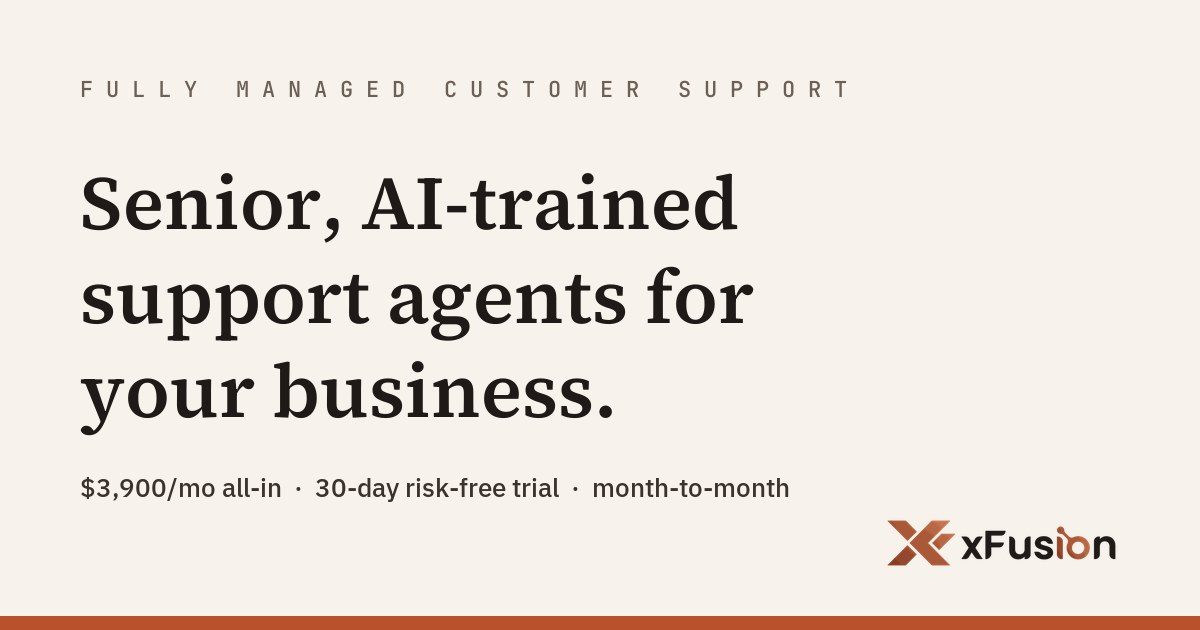
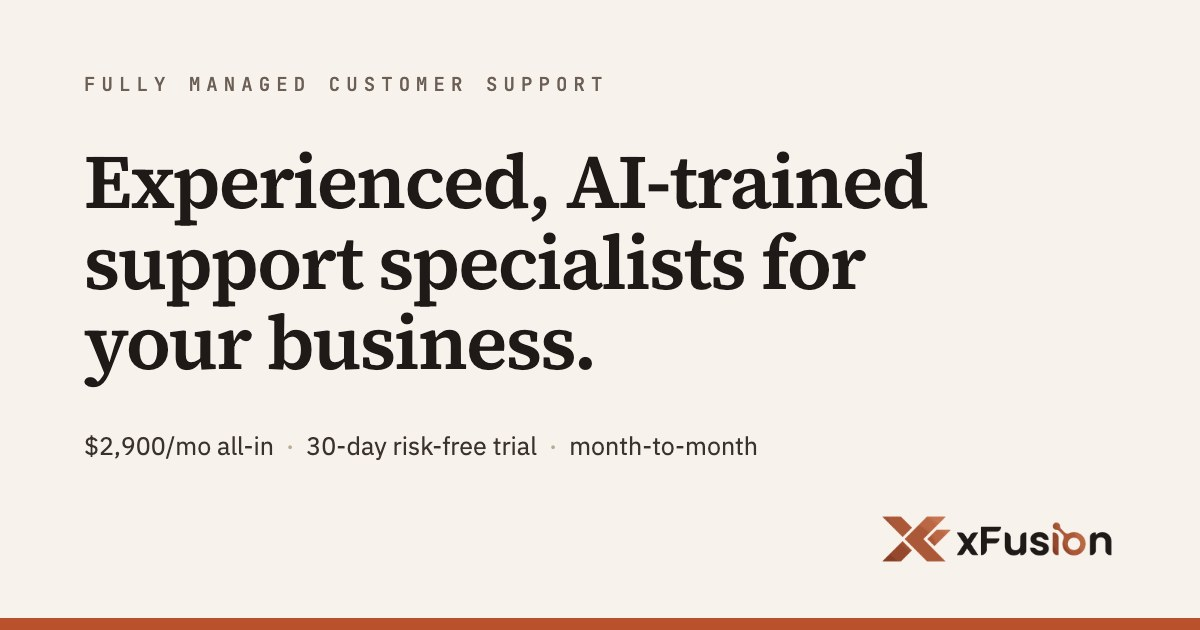
Pricing page upgrades + OG image refresh for $2,900 era
- Trial phrasing standardized (conditional, matching /faq/ and LPs)
- Influx-named FAQ removed (their pricing is now published; claim was
  outdated and the comparison belongs on a future /compare/ page)
- 'The account manager line is a real person' team block after the
  offer stack; '$108M raised in 2026' client-momentum callout after
  the US-hire comparison; draft-mode FAQ added (schema at 6)
- og-default.jpg regenerated: new positioning + $2,900 (was still
  'Senior agents / $3,900' on every social share)

diff --git a/pricing/index.built.js b/pricing/index.built.js
@@ -1763,7 +1763,7 @@ const XF_LP_FAQ = [{
   a: "$2,900 per month per experienced, AI-trained support specialist, all-inclusive. That covers the agent's salary, recruiting and vetting, onboarding, training, payroll, culture and engagement, QA, a dedicated account manager, and ongoing coaching. There are no setup fees, no deposits, and no add-ons."
 }, {
   q: "Are there setup fees, deposits, or long-term contracts?",
-  a: "No. The service is month-to-month with no minimum term, no deposit, no setup fee, and no fine print. The 30-Day Risk-Free Trial means you pay nothing for the first month and walk away free if it's not a fit."
+  a: "No. The service is month-to-month with no minimum term, no deposit, no setup fee, and no fine print. And the 30-Day Risk-Free Trial means that if you're not satisfied in the first 30 days, you walk away without paying anything."
 }, {
   q: "Why is $2,900/mo the right price?",
   a: "Two reasons. First, every specialist we place has more experience than a typical support hire and is trained to use AI tools to handle the easy stuff. So one xFusion agent does a lot more work than a junior rep at a cheaper agency. The cost per ticket is actually lower. Second, $2,900 is less than half what you'd pay for the same kind of person in the U.S., and it includes hiring, training, payroll, culture, and an account manager."
@@ -1774,8 +1774,8 @@ const XF_LP_FAQ = [{
   q: "How is xFusion different from cheaper outsourcing companies?",
   a: "Cheaper agencies staff junior agents reading scripts, and the low hourly rate usually excludes training, QA, and management layers. Every xFusion specialist is experienced and AI-trained, so one specialist does the work of several junior reps, and the flat price includes everything. The 30-Day Risk-Free Trial means we absorb the risk, not you."
 }, {
-  q: "How does xFusion compare to Influx?",
-  a: "Influx is a larger provider that prices most engagements through a sales conversation, and management layers are typically part of higher tiers. xFusion publishes one number: $2,900 per month all-in, including training, QA, management, and backup coverage, starting with a 30-day risk-free trial. If you need dozens of seats overnight, a volume provider may fit better. If you want an experienced specialist who learns your product and stays for years, that's what we do."
+  q: "How do you protect our brand voice while the specialist ramps up?",
+  a: "Draft mode. For the first days, every reply your specialist writes is a draft: their xFusion team leader reviews it, then you approve it, before it reaches a customer. Replies switch to live only once you sign off. By then they have been trained on your product, your tone, and your helpdesk."
 }];
 window.XF_LP_FAQ = XF_LP_FAQ;
 const INCLUDED = [['Experienced support specialist salary (full-time, dedicated to you)', '$3,500/mo'], ['Hiring and screening through the TraitX Framework', '$375/mo value'], ['Placement and onboarding into your business', '$1,500 one-time'], ['Training in your support process', '$750 one-time'], ['Training and certification in AI-powered support tools', '$1,500 one-time'], ['Payroll services (paying salaries, light HR, time off)', '$300/mo'], ['Culture and engagement (team-building, swag, gifts, anniversaries)', '$200/mo'], ['Dedicated account manager (leads and supports your agent)', '$1,200/mo'], ['Ongoing performance management and coaching', '$500/mo']];
@@ -1932,6 +1932,72 @@ function PricingPage() {
     }
   }, value)))))), /*#__PURE__*/React.createElement("section", {
     style: {
+      padding: '0 0 64px'
+    }
+  }, /*#__PURE__*/React.createElement(Container, {
+    narrow: true
+  }, /*#__PURE__*/React.createElement("h2", {
+    style: {
+      fontFamily: "'Source Serif 4', serif",
+      fontSize: 'clamp(24px, 3vw, 32px)',
+      fontWeight: 600,
+      letterSpacing: '-0.02em',
+      margin: '0 0 12px'
+    }
+  }, "The account manager line is a real person"), /*#__PURE__*/React.createElement("p", {
+    style: {
+      fontFamily: "'IBM Plex Sans', sans-serif",
+      fontSize: 16,
+      lineHeight: 1.6,
+      color: '#3A322D',
+      margin: '0 0 26px',
+      maxWidth: 620
+    }
+  }, "Every client gets a dedicated account manager, included in the flat rate. They run QA on real tickets, coach your specialist, and arrange backup coverage, so quality is somebody's actual job."), /*#__PURE__*/React.createElement("div", {
+    className: "pricing-team",
+    style: {
+      display: 'grid',
+      gridTemplateColumns: '1fr 1fr 1fr',
+      gap: 20
+    }
+  }, [{
+    name: 'Martin Onami',
+    img: '/images/martin-onami-lp.webp'
+  }, {
+    name: 'Reggie Rendal',
+    img: '/images/reggie-rendal-lp.webp'
+  }, {
+    name: 'Marie Medina',
+    img: '/images/marie-medina-lp.webp'
+  }].map(t => /*#__PURE__*/React.createElement("div", {
+    key: t.name
+  }, /*#__PURE__*/React.createElement("img", {
+    src: t.img,
+    alt: t.name,
+    loading: "lazy",
+    style: {
+      width: '100%',
+      aspectRatio: '4 / 5',
+      objectFit: 'cover',
+      borderRadius: 12,
+      display: 'block',
+      marginBottom: 10
+    }
+  }), /*#__PURE__*/React.createElement("div", {
+    style: {
+      fontFamily: "'Source Serif 4', serif",
+      fontSize: 17,
+      fontWeight: 600,
+      color: '#1F1A17'
+    }
+  }, t.name), /*#__PURE__*/React.createElement("div", {
+    style: {
+      fontFamily: "'IBM Plex Sans', sans-serif",
+      fontSize: 13.5,
+      color: '#6B5F56'
+    }
+  }, "Account Manager")))))), /*#__PURE__*/React.createElement("section", {
+    style: {
       background: '#EFE8DD',
       padding: '64px 0'
     }
@@ -2027,6 +2093,45 @@ function PricingPage() {
       margin: 0
     }
   }, "Experienced, AI-trained, and managed for you. Candidates in about 14 days. First month risk-free. Month-to-month after that."))))), /*#__PURE__*/React.createElement("section", {
+    style: {
+      padding: '64px 0 0'
+    }
+  }, /*#__PURE__*/React.createElement(Container, {
+    narrow: true
+  }, /*#__PURE__*/React.createElement("div", {
+    style: {
+      background: '#F8EBC9',
+      border: '1px solid #E6C683',
+      borderRadius: 12,
+      padding: '32px 34px 30px'
+    }
+  }, /*#__PURE__*/React.createElement("div", {
+    style: {
+      fontFamily: "'JetBrains Mono', monospace",
+      fontSize: 11,
+      textTransform: 'uppercase',
+      letterSpacing: '0.16em',
+      color: '#6B5F56',
+      marginBottom: 12
+    }
+  }, "From our client roster"), /*#__PURE__*/React.createElement("div", {
+    style: {
+      fontFamily: "'Source Serif 4', serif",
+      fontSize: 'clamp(22px, 2.8vw, 28px)',
+      fontWeight: 600,
+      letterSpacing: '-0.02em',
+      color: '#1F1A17',
+      marginBottom: 12
+    }
+  }, "Companies that raised over $108M in 2026 pay this same flat rate"), /*#__PURE__*/React.createElement("p", {
+    style: {
+      fontFamily: "'IBM Plex Sans', sans-serif",
+      fontSize: 16,
+      lineHeight: 1.65,
+      color: '#3A322D',
+      margin: 0
+    }
+  }, "Aligned closed a $60M Series B. Arbio closed a $36M Series A. SkyFi closed an oversubscribed $12.7M Series A. All of them run their customer support with xFusion, at the price on this page.")))), /*#__PURE__*/React.createElement("section", {
     style: {
       padding: '64px 0 0'
     }
@@ -2148,7 +2253,7 @@ function PricingPage() {
     href: "/book/"
   }, "Book a Discovery Call")))), /*#__PURE__*/React.createElement(StickyCapture, null), /*#__PURE__*/React.createElement(Footer, null), /*#__PURE__*/React.createElement("style", null, `
             @media (max-width: 760px) {
-              .pricing-compare { grid-template-columns: 1fr !important; }
+              .pricing-compare { grid-template-columns: 1fr !important; } .pricing-team { grid-template-columns: 1fr 1fr 1fr !important; }
             }
           `));
 }

diff --git a/pricing/index.src.html b/pricing/index.src.html
@@ -39,7 +39,7 @@
   <meta name="twitter:title" content="Pricing: $2,900/mo All-In | xFusion">
   <meta name="twitter:description" content="xFusion pricing is one number: $2,900 per month, all-inclusive, per experienced, AI-trained support specialist. Month-to-month, no setup fees, 30-day risk-free trial.">
   <meta name="twitter:image" content="https://xfusion.io/images/og-default.jpg">
-  <script type="application/ld+json">{"@context":"https://schema.org","@type":"FAQPage","mainEntity":[{"@type":"Question","name":"How much does xFusion cost?","acceptedAnswer":{"@type":"Answer","text":"$2,900 per month per experienced, AI-trained support specialist, all-inclusive. That covers the agent's salary, recruiting and vetting, onboarding, training, payroll, culture and engagement, QA, a dedicated account manager, and ongoing coaching. There are no setup fees, no deposits, and no add-ons."}},{"@type":"Question","name":"Are there setup fees, deposits, or long-term contracts?","acceptedAnswer":{"@type":"Answer","text":"No. The service is month-to-month with no minimum term, no deposit, no setup fee, and no fine print. The 30-Day Risk-Free Trial means you pay nothing for the first month and walk away free if it's not a fit."}},{"@type":"Question","name":"Why is $2,900/mo the right price?","acceptedAnswer":{"@type":"Answer","text":"Two reasons. First, every specialist we place has more experience than a typical support hire and is trained to use AI tools to handle the easy stuff. So one xFusion agent does a lot more work than a junior rep at a cheaper agency. The cost per ticket is actually lower. Second, $2,900 is less than half what you'd pay for the same kind of person in the U.S., and it includes hiring, training, payroll, culture, and an account manager."}},{"@type":"Question","name":"How does xFusion pricing compare to hiring in the U.S.?","acceptedAnswer":{"@type":"Answer","text":"Senior-level support reps in the U.S. who know AI cost $80,000 to $100,000+ per year, which is $6,600 to $8,300+ per month once you add benefits, taxes, payroll, equipment, hiring fees, and management costs. xFusion is $2,900 per month all-in, and you skip the months-long search."}},{"@type":"Question","name":"How is xFusion different from cheaper outsourcing companies?","acceptedAnswer":{"@type":"Answer","text":"Cheaper agencies staff junior agents reading scripts, and the low hourly rate usually excludes training, QA, and management layers. Every xFusion specialist is experienced and AI-trained, so one specialist does the work of several junior reps, and the flat price includes everything. The 30-Day Risk-Free Trial means we absorb the risk, not you."}},{"@type":"Question","name":"How does xFusion compare to Influx?","acceptedAnswer":{"@type":"Answer","text":"Influx is a larger provider that prices most engagements through a sales conversation, and management layers are typically part of higher tiers. xFusion publishes one number: $2,900 per month all-in, including training, QA, management, and backup coverage, starting with a 30-day risk-free trial. If you need dozens of seats overnight, a volume provider may fit better. If you want an experienced specialist who learns your product and stays for years, that's what we do."}}]}</script>
+  <script type="application/ld+json">{"@context":"https://schema.org","@type":"FAQPage","mainEntity":[{"@type":"Question","name":"How much does xFusion cost?","acceptedAnswer":{"@type":"Answer","text":"$2,900 per month per experienced, AI-trained support specialist, all-inclusive. That covers the agent's salary, recruiting and vetting, onboarding, training, payroll, culture and engagement, QA, a dedicated account manager, and ongoing coaching. There are no setup fees, no deposits, and no add-ons."}},{"@type":"Question","name":"Are there setup fees, deposits, or long-term contracts?","acceptedAnswer":{"@type":"Answer","text":"No. The service is month-to-month with no minimum term, no deposit, no setup fee, and no fine print. And the 30-Day Risk-Free Trial means that if you're not satisfied in the first 30 days, you walk away without paying anything."}},{"@type":"Question","name":"Why is $2,900/mo the right price?","acceptedAnswer":{"@type":"Answer","text":"Two reasons. First, every specialist we place has more experience than a typical support hire and is trained to use AI tools to handle the easy stuff. So one xFusion agent does a lot more work than a junior rep at a cheaper agency. The cost per ticket is actually lower. Second, $2,900 is less than half what you'd pay for the same kind of person in the U.S., and it includes hiring, training, payroll, culture, and an account manager."}},{"@type":"Question","name":"How does xFusion pricing compare to hiring in the U.S.?","acceptedAnswer":{"@type":"Answer","text":"Senior-level support reps in the U.S. who know AI cost $80,000 to $100,000+ per year, which is $6,600 to $8,300+ per month once you add benefits, taxes, payroll, equipment, hiring fees, and management costs. xFusion is $2,900 per month all-in, and you skip the months-long search."}},{"@type":"Question","name":"How is xFusion different from cheaper outsourcing companies?","acceptedAnswer":{"@type":"Answer","text":"Cheaper agencies staff junior agents reading scripts, and the low hourly rate usually excludes training, QA, and management layers. Every xFusion specialist is experienced and AI-trained, so one specialist does the work of several junior reps, and the flat price includes everything. The 30-Day Risk-Free Trial means we absorb the risk, not you."}},{"@type":"Question","name":"How do you protect our brand voice while the specialist ramps up?","acceptedAnswer":{"@type":"Answer","text":"Draft mode. For the first days, every reply your specialist writes is a draft: their xFusion team leader reviews it, then you approve it, before it reaches a customer. Replies switch to live only once you sign off. By then they have been trained on your product, your tone, and your helpdesk."}}]}</script>
   <!-- social-meta:end -->
 </head>
 <body>
@@ -64,7 +64,7 @@
       },
       {
         q: "Are there setup fees, deposits, or long-term contracts?",
-        a: "No. The service is month-to-month with no minimum term, no deposit, no setup fee, and no fine print. The 30-Day Risk-Free Trial means you pay nothing for the first month and walk away free if it's not a fit.",
+        a: "No. The service is month-to-month with no minimum term, no deposit, no setup fee, and no fine print. And the 30-Day Risk-Free Trial means that if you're not satisfied in the first 30 days, you walk away without paying anything.",
       },
       {
         q: "Why is $2,900/mo the right price?",
@@ -79,8 +79,8 @@
         a: "Cheaper agencies staff junior agents reading scripts, and the low hourly rate usually excludes training, QA, and management layers. Every xFusion specialist is experienced and AI-trained, so one specialist does the work of several junior reps, and the flat price includes everything. The 30-Day Risk-Free Trial means we absorb the risk, not you.",
       },
       {
-        q: "How does xFusion compare to Influx?",
-        a: "Influx is a larger provider that prices most engagements through a sales conversation, and management layers are typically part of higher tiers. xFusion publishes one number: $2,900 per month all-in, including training, QA, management, and backup coverage, starting with a 30-day risk-free trial. If you need dozens of seats overnight, a volume provider may fit better. If you want an experienced specialist who learns your product and stays for years, that's what we do.",
+        q: "How do you protect our brand voice while the specialist ramps up?",
+        a: "Draft mode. For the first days, every reply your specialist writes is a draft: their xFusion team leader reviews it, then you approve it, before it reaches a customer. Replies switch to live only once you sign off. By then they have been trained on your product, your tone, and your helpdesk.",
       },
     ];
 
@@ -189,6 +189,38 @@
               </Container>
             </section>
 
+            {/* The people behind the account-manager line */}
+            <section style={{ padding: '0 0 64px' }}>
+              <Container narrow>
+                <h2 style={{
+                  fontFamily: "'Source Serif 4', serif", fontSize: 'clamp(24px, 3vw, 32px)',
+                  fontWeight: 600, letterSpacing: '-0.02em', margin: '0 0 12px',
+                }}>The account manager line is a real person</h2>
+                <p style={{
+                  fontFamily: "'IBM Plex Sans', sans-serif", fontSize: 16,
+                  lineHeight: 1.6, color: '#3A322D', margin: '0 0 26px', maxWidth: 620,
+                }}>
+                  Every client gets a dedicated account manager, included in the flat rate.
+                  They run QA on real tickets, coach your specialist, and arrange backup
+                  coverage, so quality is somebody's actual job.
+                </p>
+                <div className="pricing-team" style={{ display: 'grid', gridTemplateColumns: '1fr 1fr 1fr', gap: 20 }}>
+                  {[
+                    { name: 'Martin Onami', img: '/images/martin-onami-lp.webp' },
+                    { name: 'Reggie Rendal', img: '/images/reggie-rendal-lp.webp' },
+                    { name: 'Marie Medina', img: '/images/marie-medina-lp.webp' },
+                  ].map((t) => (
+                    <div key={t.name}>
+                      <img src={t.img} alt={t.name} loading="lazy"
+                        style={{ width: '100%', aspectRatio: '4 / 5', objectFit: 'cover', borderRadius: 12, display: 'block', marginBottom: 10 }} />
+                      <div style={{ fontFamily: "'Source Serif 4', serif", fontSize: 17, fontWeight: 600, color: '#1F1A17' }}>{t.name}</div>
+                      <div style={{ fontFamily: "'IBM Plex Sans', sans-serif", fontSize: 13.5, color: '#6B5F56' }}>Account Manager</div>
+                    </div>
+                  ))}
+                </div>
+              </Container>
+            </section>
+
             {/* US-hire comparison */}
             <section style={{ background: '#EFE8DD', padding: '64px 0' }}>
               <Container narrow>
@@ -213,6 +245,29 @@
                       First month risk-free. Month-to-month after that.
                     </p>
                   </div>
+                </div>
+              </Container>
+            </section>
+
+            {/* Client momentum (verified public raises) */}
+            <section style={{ padding: '64px 0 0' }}>
+              <Container narrow>
+                <div style={{ background: '#F8EBC9', border: '1px solid #E6C683', borderRadius: 12, padding: '32px 34px 30px' }}>
+                  <div style={{
+                    fontFamily: "'JetBrains Mono', monospace", fontSize: 11,
+                    textTransform: 'uppercase', letterSpacing: '0.16em', color: '#6B5F56', marginBottom: 12,
+                  }}>From our client roster</div>
+                  <div style={{
+                    fontFamily: "'Source Serif 4', serif", fontSize: 'clamp(22px, 2.8vw, 28px)',
+                    fontWeight: 600, letterSpacing: '-0.02em', color: '#1F1A17', marginBottom: 12,
+                  }}>Companies that raised over $108M in 2026 pay this same flat rate</div>
+                  <p style={{
+                    fontFamily: "'IBM Plex Sans', sans-serif", fontSize: 16, lineHeight: 1.65, color: '#3A322D', margin: 0,
+                  }}>
+                    Aligned closed a $60M Series B. Arbio closed a $36M Series A. SkyFi closed an
+                    oversubscribed $12.7M Series A. All of them run their customer support with
+                    xFusion, at the price on this page.
+                  </p>
                 </div>
               </Container>
             </section>
@@ -291,7 +346,7 @@
           <Footer />
           <style>{`
             @media (max-width: 760px) {
-              .pricing-compare { grid-template-columns: 1fr !important; }
+              .pricing-compare { grid-template-columns: 1fr !important; } .pricing-team { grid-template-columns: 1fr 1fr 1fr !important; }
             }
           `}</style>
         </div>